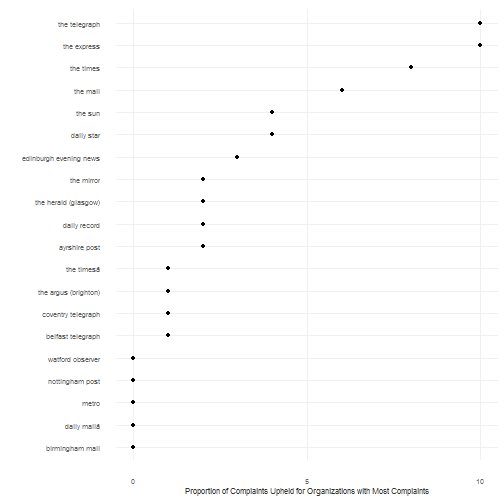
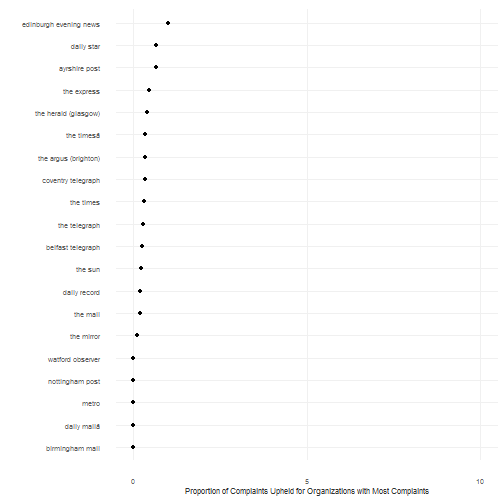
p-upheld fixed

diff --git a/readme.md b/readme.md
@@ -149,7 +149,7 @@ To download the pdf version of the graph, [click here](figure/ipso_n_upheld.pdf)
 ```r
 # Batting average of the top 20
 
-p_upheld    <-  setNames(upheld_tab[upheld_tab$media_org %in% media_tab2$Media, c("media_org", "total_upheld")], c("Media", "Proportion"))
+p_upheld    <-  setNames(upheld_tab[upheld_tab$media_org %in% media_tab2$Media, c("media_org", "prop_upheld")], c("Media", "Proportion"))
 p_upheld$Media <- factor(p_upheld$Media, levels=p_upheld$Media[order(p_upheld$Proportion)], ordered=TRUE) #reordering
 
 ggplot(p_upheld, aes(Proportion, Media)) +
